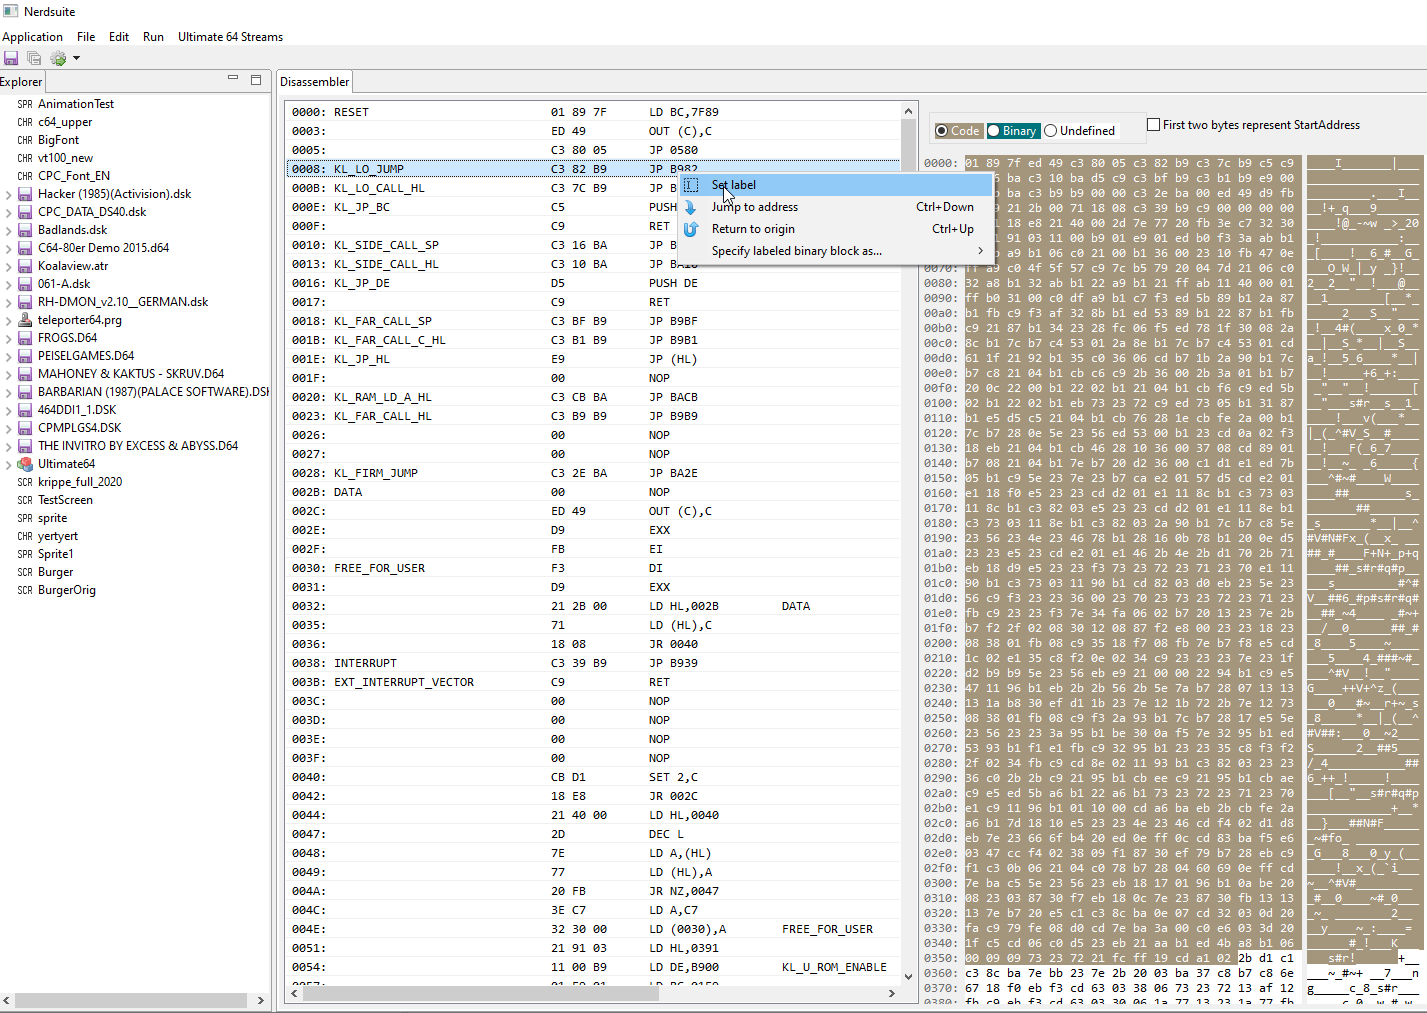
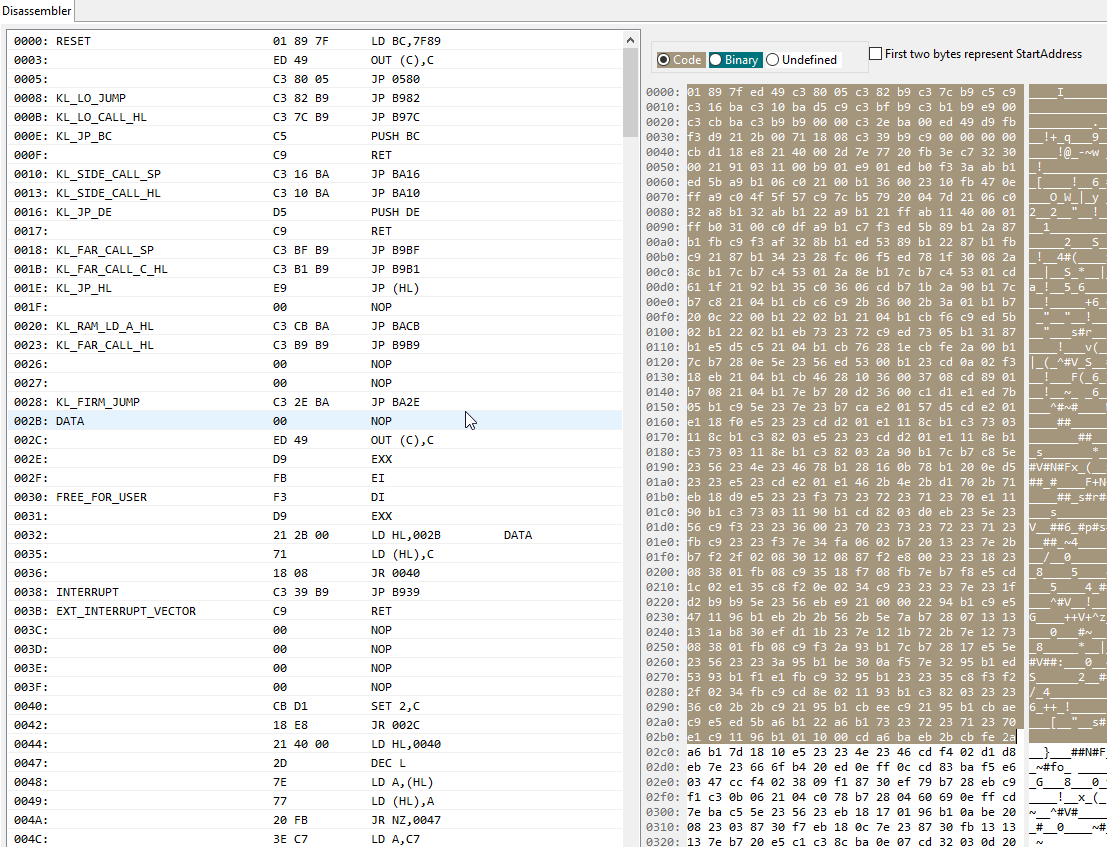
update table label editor

diff --git a/de.drazil.nerdsuite/src/de/drazil/nerdsuite/widget/HexViewWidget.java b/de.drazil.nerdsuite/src/de/drazil/nerdsuite/widget/HexViewWidget.java
@@ -10,7 +10,6 @@ import java.util.stream.Collectors;
 import org.eclipse.jface.viewers.ArrayContentProvider;
 import org.eclipse.jface.viewers.CellEditor;
 import org.eclipse.jface.viewers.ColumnLabelProvider;
-import org.eclipse.jface.viewers.ICellModifier;
 import org.eclipse.jface.viewers.IStructuredSelection;
 import org.eclipse.jface.viewers.StructuredSelection;
 import org.eclipse.jface.viewers.TableViewer;
@@ -21,6 +20,7 @@ import org.eclipse.swt.custom.LineStyleEvent;
 import org.eclipse.swt.custom.LineStyleListener;
 import org.eclipse.swt.custom.StyleRange;
 import org.eclipse.swt.custom.StyledText;
+import org.eclipse.swt.custom.TableEditor;
 import org.eclipse.swt.events.MouseAdapter;
 import org.eclipse.swt.events.MouseEvent;
 import org.eclipse.swt.events.SelectionAdapter;
@@ -29,16 +29,21 @@ import org.eclipse.swt.graphics.Color;
 import org.eclipse.swt.graphics.Font;
 import org.eclipse.swt.graphics.FontMetrics;
 import org.eclipse.swt.graphics.GC;
+import org.eclipse.swt.graphics.Point;
+import org.eclipse.swt.graphics.Rectangle;
 import org.eclipse.swt.layout.GridData;
 import org.eclipse.swt.layout.GridLayout;
 import org.eclipse.swt.layout.RowLayout;
 import org.eclipse.swt.widgets.Button;
 import org.eclipse.swt.widgets.Composite;
 import org.eclipse.swt.widgets.Display;
+import org.eclipse.swt.widgets.Event;
 import org.eclipse.swt.widgets.Group;
-import org.eclipse.swt.widgets.Item;
+import org.eclipse.swt.widgets.Listener;
 import org.eclipse.swt.widgets.MessageBox;
 import org.eclipse.swt.widgets.TableColumn;
+import org.eclipse.swt.widgets.TableItem;
+import org.eclipse.swt.widgets.Text;
 
 import de.drazil.nerdsuite.Constants;
 import de.drazil.nerdsuite.disassembler.HexViewContent;
@@ -320,37 +325,30 @@ public class HexViewWidget extends Composite {
 		tableViewer = new TableViewer(this, SWT.BORDER | SWT.FULL_SELECTION);
 		tableViewer.getTable().setLinesVisible(true);
 		tableViewer.setCellEditors(new CellEditor[] { new TextCellEditor(tableViewer.getTable()) });
-		tableViewer.setColumnProperties(new String[] { "DISASM" });
-		tableViewer.setCellModifier(new ICellModifier() {
-
-			@Override
-			public void modify(Object element, String property, Object value) {
-				if (element instanceof Item) {
-					element = ((Item) element).getData();
-				}
-				((InstructionLine) element).setLabelName((String) value);
-				tableViewer.refresh();
-			}
-
-			@Override
-			public Object getValue(Object element, String property) {
-				return ((InstructionLine) element).getLabelName();
-			}
-
-			@Override
-			public boolean canModify(Object element, String property) {
-				return true;
-			}
-		});
-
-		TableViewerColumn tableViewerColumn1 = new TableViewerColumn(tableViewer, SWT.NONE);
-		ColumnLabelProvider labelProvider1 = new ColumnLabelProvider() {
+		tableViewer.setColumnProperties(new String[] { "ADDRESS", "LABEL", "DISASM" });
+		/*
+		 * tableViewer.setCellModifier(new ICellModifier() {
+		 * 
+		 * @Override public void modify(Object element, String property, Object value) {
+		 * if (element instanceof Item) { element = ((Item) element).getData(); }
+		 * ((InstructionLine) element).setLabelName((String) value);
+		 * tableViewer.refresh(); }
+		 * 
+		 * @Override public Object getValue(Object element, String property) { return
+		 * ((InstructionLine) element).getLabelName(); }
+		 * 
+		 * @Override public boolean canModify(Object element, String property) { return
+		 * "LABEL".equals(property); } });
+		 */
+		TableViewerColumn tableViewerColumnAddress = new TableViewerColumn(tableViewer, SWT.NONE);
+		TableViewerColumn tableViewerColumnLabel = new TableViewerColumn(tableViewer, SWT.NONE);
+		TableViewerColumn tableViewerColumnCode = new TableViewerColumn(tableViewer, SWT.NONE);
+		ColumnLabelProvider labelProviderAddress = new ColumnLabelProvider() {
 			@Override
 			public String getText(Object element) {
 				InstructionLine il = (InstructionLine) element;
 				Object[] userObject = (Object[]) il.getUserObject();
-				String s = String.format("%s: %-30s %-13s %s %-15s %s", userObject[0], userObject[1], userObject[2],
-						userObject[3], userObject[4], userObject[5]);
+				String s = String.format("%s", userObject[0]);
 				return s;
 			}
 
@@ -359,12 +357,100 @@ public class HexViewWidget extends Composite {
 				return Constants.EDITOR_FONT;
 			}
 		};
-		tableViewerColumn1.setLabelProvider(labelProvider1);
-		TableColumn codeLine = tableViewerColumn1.getColumn();
-		codeLine.setWidth(1000);
+		ColumnLabelProvider labelProviderLabel = new ColumnLabelProvider() {
+			@Override
+			public String getText(Object element) {
+				InstructionLine il = (InstructionLine) element;
+				Object[] userObject = (Object[]) il.getUserObject();
+				String s = String.format("%s", userObject[1]);
+				return s;
+			}
+
+			@Override
+			public Font getFont(Object element) {
+				return Constants.EDITOR_FONT;
+			}
+		};
+		ColumnLabelProvider labelProviderCode = new ColumnLabelProvider() {
+			@Override
+			public String getText(Object element) {
+				InstructionLine il = (InstructionLine) element;
+				Object[] userObject = (Object[]) il.getUserObject();
+				String s = String.format("%-13s %s %-15s %s", userObject[2], userObject[3], userObject[4],
+						userObject[5]);
+				return s;
+			}
+
+			@Override
+			public Font getFont(Object element) {
+				return Constants.EDITOR_FONT;
+			}
+		};
+		tableViewerColumnAddress.setLabelProvider(labelProviderAddress);
+		tableViewerColumnLabel.setLabelProvider(labelProviderLabel);
+		tableViewerColumnCode.setLabelProvider(labelProviderCode);
+		TableColumn addressLine = tableViewerColumnAddress.getColumn();
+		addressLine.setWidth(50);
+		TableColumn labelLine = tableViewerColumnLabel.getColumn();
+		labelLine.setWidth(200);
+		TableColumn codeLine = tableViewerColumnCode.getColumn();
+		codeLine.setWidth(500);
 
 		tableViewer.setContentProvider(new ArrayContentProvider());
 		tableViewer.getTable().setLayoutData(gd);
+
+		final TableEditor editor = new TableEditor(tableViewer.getTable());
+		editor.horizontalAlignment = SWT.LEFT;
+		editor.grabHorizontal = true;
+		tableViewer.getTable().addListener(SWT.MouseDown, new Listener() {
+			public void handleEvent(Event event) {
+				Rectangle clientArea = tableViewer.getTable().getClientArea();
+				Point pt = new Point(event.x, event.y);
+				int index = tableViewer.getTable().getTopIndex();
+				while (index < tableViewer.getTable().getItemCount()) {
+					boolean visible = false;
+					final TableItem item = tableViewer.getTable().getItem(index);
+					Rectangle rect = item.getBounds(1);
+					if (rect.contains(pt)) {
+						final int column = 1;
+						final Text text = new Text(tableViewer.getTable(), SWT.NONE);
+						Listener textListener = new Listener() {
+							public void handleEvent(final Event e) {
+								switch (e.type) {
+								case SWT.FocusOut:
+									item.setText(column, text.getText());
+									text.dispose();
+									break;
+								case SWT.Traverse:
+									switch (e.detail) {
+									case SWT.TRAVERSE_RETURN:
+										item.setText(column, text.getText());
+										// FALL THROUGH
+									case SWT.TRAVERSE_ESCAPE:
+										text.dispose();
+										e.doit = false;
+									}
+									break;
+								}
+							}
+						};
+						text.addListener(SWT.FocusOut, textListener);
+						text.addListener(SWT.Traverse, textListener);
+						editor.setEditor(text, item, 1);
+						text.setText(item.getText(1));
+						text.selectAll();
+						text.setFocus();
+						return;
+					}
+					if (!visible && rect.intersects(clientArea)) {
+						visible = true;
+					}
+					if (!visible)
+						return;
+					index++;
+				}
+			}
+		});
 
 		gd = new GridData();
 		gd.horizontalAlignment = GridData.BEGINNING;

diff --git a/de.drazil.nerdsuite/src/de/drazil/nerdsuite/widget/MemoryViewWidget.java b/de.drazil.nerdsuite/src/de/drazil/nerdsuite/widget/MemoryViewWidget.java
@@ -1,5 +1,8 @@
 package de.drazil.nerdsuite.widget;
 
+import java.util.ArrayList;
+import java.util.List;
+
 import org.eclipse.swt.events.PaintEvent;
 import org.eclipse.swt.events.PaintListener;
 import org.eclipse.swt.graphics.GC;
@@ -15,11 +18,43 @@ public class MemoryViewWidget extends Canvas implements PaintListener {
 	private Image image = null;
 	private int width = 660;
 	private int height = 960;
+	private Image[] imageCache;
 
 	public MemoryViewWidget(Composite parent, int style) {
 		super(parent, style);
+		imageCache = new Image[512];
 		prepareImage(width, height);
+		prepareImageCache();
 		addPaintListener(this);
+	}
+
+	private void prepareImageCache() {
+		for (int i = 0; i < 256; i++) {
+			Image imgGreen = new Image(getDisplay(), 8, 1);
+			Image imgRed = new Image(getDisplay(), 8, 1);
+			GC gcGreen = new GC(imgGreen);
+			GC gcRed = new GC(imgRed);
+			int v = 1;
+			int x = 7;
+			while (v < 256) {
+				if ((i & v) == v) {
+					gcGreen.setForeground(Constants.GREEN);
+					gcRed.setForeground(Constants.RED);
+
+				} else {
+					gcGreen.setForeground(Constants.BLACK);
+					gcRed.setForeground(Constants.BLACK);
+				}
+				gcGreen.drawPoint(x, 0);
+				gcRed.drawPoint(x, 0);
+				v = v << 1;
+				x--;
+			}
+			imageCache[i] = imgGreen;
+			imageCache[i + 256] = imgRed;
+			gcGreen.dispose();
+			gcRed.dispose();
+		}
 	}
 
 	private void prepareImage(int width, int height) {
@@ -28,14 +63,21 @@ public class MemoryViewWidget extends Canvas implements PaintListener {
 		gc.setBackground(Constants.BLACK);
 		gc.fillRectangle(0, 0, width, 960);
 		gc.setForeground(Constants.WHITE);
-		gc.drawString("$0000-$1fff", 0, 210);
-		gc.drawString("$2000-$3fff", 0, 440);
-		gc.drawString("$4000-$5fff", 0, 670);
-		gc.drawString("$6000-$7fff", 0, 900);
-		gc.drawString("$8000-$9fff", 330, 210);
-		gc.drawString("$a000-$bfff", 330, 440);
-		gc.drawString("$c000-$dfff", 330, 670);
-		gc.drawString("$e000-$ffff", 330, 900);
+		int from = 0;
+		for (int x = 0; x < 2; x++) {
+			for (int y = 0; y < 4; y++) {
+				String s = String.format("%04x-%04x", from, from + 0x1fff);
+				gc.drawString(s, x * 330, 210 + y * 230);
+				from += 0x2000;
+			}
+		}
+		/*
+		 * gc.drawString("$0000-$1fff", 0, 210); gc.drawString("$2000-$3fff", 0, 440);
+		 * gc.drawString("$4000-$5fff", 0, 670); gc.drawString("$6000-$7fff", 0, 900);
+		 * gc.drawString("$8000-$9fff", 330, 210); gc.drawString("$a000-$bfff", 330,
+		 * 440); gc.drawString("$c000-$dfff", 330, 670); gc.drawString("$e000-$ffff",
+		 * 330, 900);
+		 */
 		gc.dispose();
 	}
 
@@ -50,28 +92,14 @@ public class MemoryViewWidget extends Canvas implements PaintListener {
 		int si = address % 0x2000;
 		int x = segmentStartX + ((si / 8) % 40 * 8);
 		int y = segmentStartY + ((si % 8) + (si / 320) * 8);
-
 		GC gc = new GC(image);
-
-		int i = 1;
-		int x2 = 8;
-		while (i < 256) {
-			if ((value & i) == i) {
-				gc.setForeground(rw ? Constants.GREEN : Constants.RED);
-			} else {
-				gc.setForeground(Constants.BLACK);
-			}
-			gc.drawPoint(x + x2, y);
-			i = i << 1;
-			x2--;
-		}
-
+		gc.drawImage(imageCache[value + (rw ? 0 : 256)], x, y);
 		gc.dispose();
 		redraw(x, y, 8, 1, false);
 	}
 
 	@Override
 	public Point computeSize(int wHint, int hHint, boolean changed) {
-		return new Point(640, 819);
+		return new Point(width, height);
 	}
 }

diff --git a/de.drazil.nerdsuite/src/de/drazil/nerdsuite/imaging/Ultimate64DebugStreamView.java b/de.drazil.nerdsuite/src/de/drazil/nerdsuite/imaging/Ultimate64DebugStreamView.java
@@ -46,7 +46,6 @@ public class Ultimate64DebugStreamView {
 		@Getter
 		private boolean running = false;
 		private DatagramSocket socket;
-		private int index = 0;
 
 		public synchronized void run() {
 			try {
@@ -64,10 +63,11 @@ public class Ultimate64DebugStreamView {
 
 							for (int i = 4; i < 1444; i += 4) {
 								int adr = ((int) ((buf[i + 1] << 8) | (buf[i + 0] & 0xff)) & 0xffff);
-
 								int data = ((int) (buf[i + 2] & 0xff));
 								int flags = ((int) (buf[i + 3] & 0xff));
+
 								if (mem[adr] != data) {
+
 									mem[adr] = data;
 									imageViewer.setByte(adr, data, (flags & 1) == 1);
 								}
